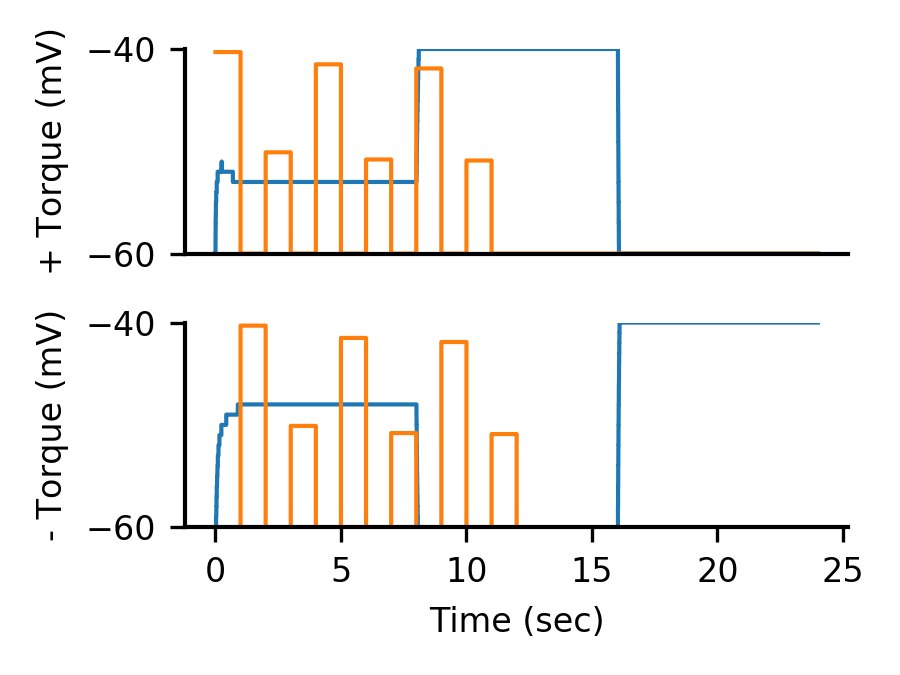
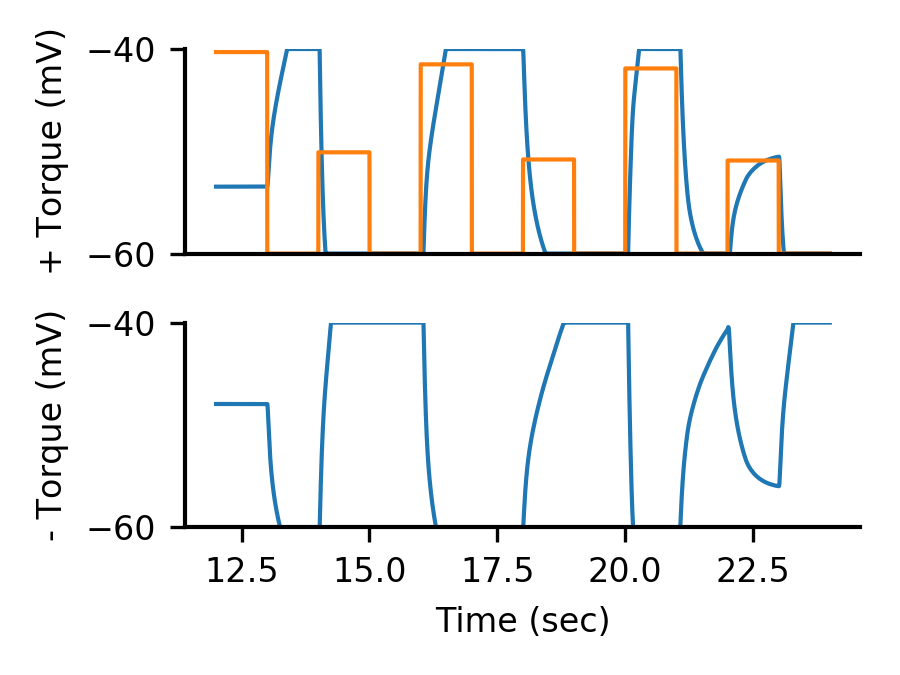
It shows something for TTO

diff --git a/writeup/scripts/plot_torque_optimize.py b/writeup/scripts/plot_torque_optimize.py
@@ -29,28 +29,29 @@ pos_tor = np.clip(pos_tor, -60, -40)
 neg_tor = data[:, 18]
 neg_tor = np.clip(neg_tor, -60, -40)
 
-
-# TODO(buckbaskin): define reference accelerations for positive, negative
 # 5000 steps per second
 pos_ref = np.zeros(pos_tor.shape)
-pos_ref[5000:10000] = 19.7
-pos_ref[15000:20000] = 9.9
-pos_ref[25000:30000] = 18.5
-pos_ref[35000:40000] = 9.2
-pos_ref[45000:50000] = 18.1
-pos_ref[55000:60000] = 9.1
+pos_ref[65000:70000] = 0.0
+pos_ref[70000:75000] = 20
+pos_ref[75000:80000] = -20
+pos_ref[80000:85000] = -20
+pos_ref[85000:90000] = 20
+
+pos_ref[90000:95000] = 20
+pos_ref[95000:100000] = -10
+pos_ref[100000:105000] = -11.4
+pos_ref[105000:110000] = 11.4
+
+pos_ref[110000:115000] = -20
+pos_ref[115000:120000] = 10
+pos_ref[120000:125000] = -20
+
+neg_ref = - np.copy(pos_ref)
 
 pos_ref += -60
-
-neg_ref = np.zeros(neg_tor.shape)
-neg_ref[10000:15000] = 19.7
-neg_ref[20000:25000] = 9.9
-neg_ref[30000:35000] = 18.5
-neg_ref[40000:45000] = 9.2
-neg_ref[50000:55000] = 18.1
-neg_ref[60000:65000] = 9.1
-
+pos_ref = np.clip(pos_ref, -60, -40)
 neg_ref += -60
+neg_ref = np.clip(neg_ref, -60, -40)
 
 setup = [
 ('Pos', [pos_tor, pos_ref]),
@@ -71,8 +72,8 @@ for name, datasets in setup:
 
     vel, ref = datasets
     # print(len(time))
-    ax.plot(time[5000:], vel[5000:], linewidth=linewidth, label='Est. Torq.')
-    ax.plot(time[5000:], ref[5000:], linewidth=linewidth, label='Reference')
+    ax.plot(time[65000:], vel[65000:], linewidth=linewidth, label='Est. Torq.')
+    ax.plot(time[65000:], ref[65000:], linewidth=linewidth, label='Reference')
     
     if count == 1:
         ax.set_ylabel('+ Torque (mV)')
@@ -95,5 +96,5 @@ for name, datasets in setup:
 
     # plt.legend()
 plt.tight_layout()
-plt.savefig('images/results/TestTorqueOptimization.png')
+# plt.savefig('images/results/TestTorqueOptimization.png')
 plt.show()
